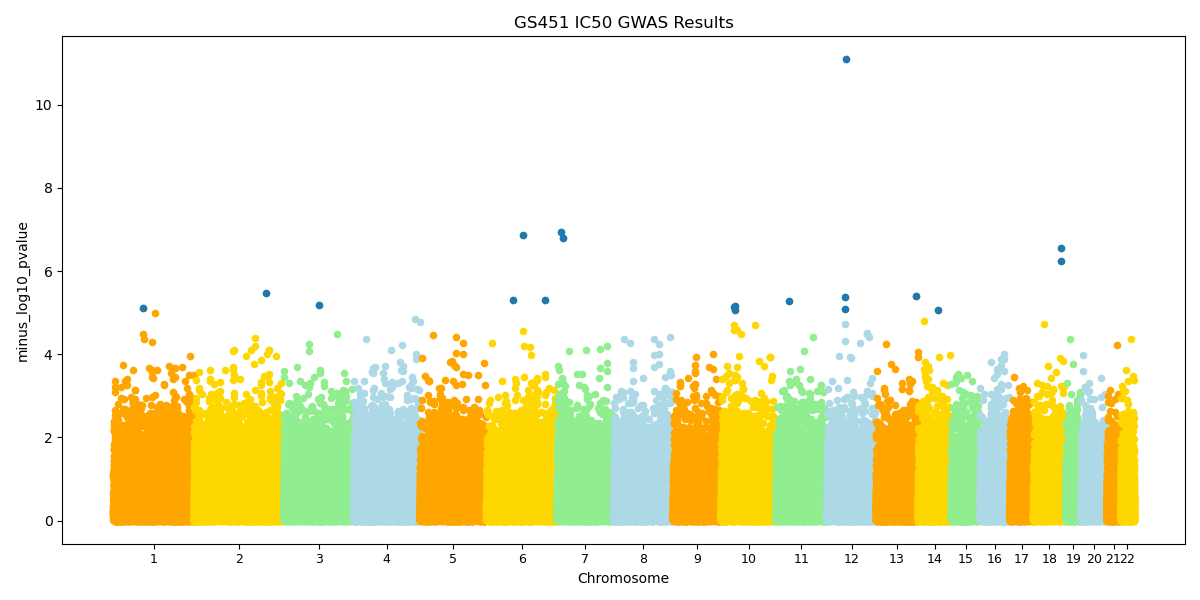
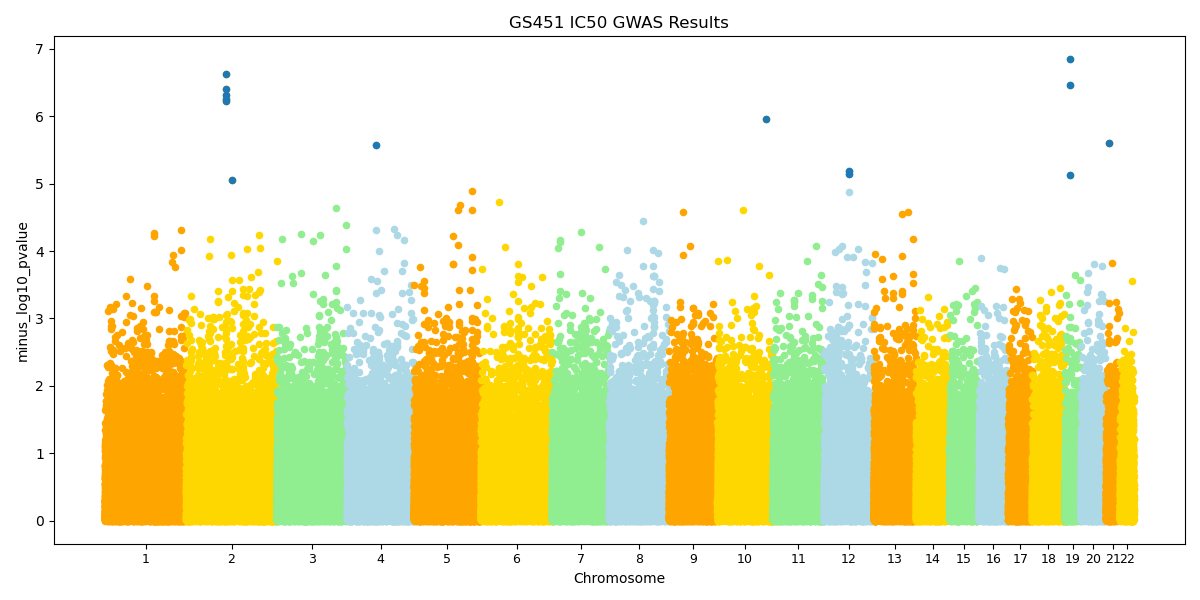
fixed manhattan plots

diff --git a/week4-homework/manhattan.py b/week4-homework/manhattan.py
@@ -12,7 +12,7 @@ df_GS = pd.read_csv('GS451_IC50_gwas_results.assoc.linear',
 # only care about actual genotypes not covariate p-values
 
 df_CB = df_CB[df_CB['TEST'] == 'ADD']
-df_GS = df_CB[df_CB['TEST'] == 'ADD']
+df_GS = df_GS[df_GS['TEST'] == 'ADD']
 
 
 titles = ['CB1908 IC50 GWAS Results', 'GS451 IC50 GWAS Results']

diff --git a/week4-homework/effect_size.py b/week4-homework/effect_size.py
@@ -58,3 +58,5 @@ ax.set_ylabel('IC50')
 plt.title('Effect size of SNP ' + top_snp + ' on CB1908 IC50')
 
 plt.savefig('effect_size.png', dpi=150)
+
+print(top_snp)
